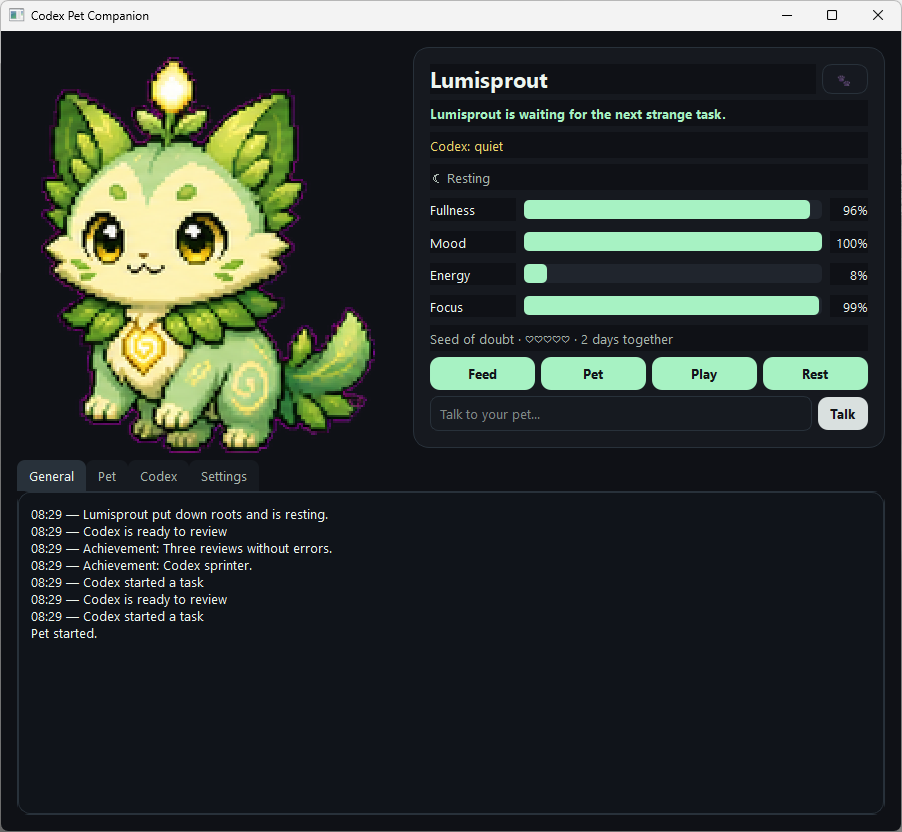
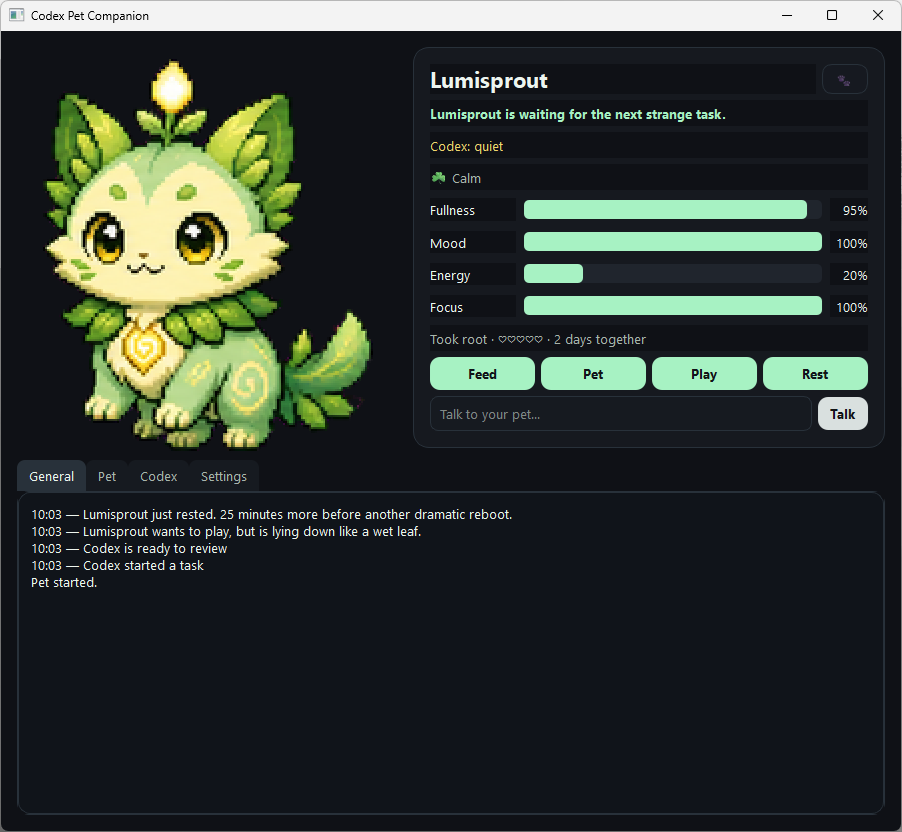
Add files via upload

diff --git a/README.md b/README.md
@@ -1,89 +1,20 @@
 # Codex Pet Companion
 
-A tiny tamagotchi-style desktop companion for Codex.
+A small desktop pet companion for working alongside Codex.
 
-## Screenshots
+## What it does
 
-**Full mode**
-
-![Codex Pet Companion full mode](screenshot.png)
-
-**Mini mode**
-
-![Codex Pet Companion mini mode](screenshot2.png)
-
-## Download
-
-Get the latest Windows build from the [Releases](https://github.com/pixel-raccoon/codex-pet-companion/releases) page.
-
-Download `CodexPetCompanion.exe`, run it, then choose your Codex folder in Settings.
-
-## What it is
-
-Codex Pet Companion is a small desktop pet that reacts to your Codex workflow.
-
-It watches Codex activity and responds when tasks start, tools run, reviews are ready, errors happen, or the session goes quiet. The pet is not just a static mascot: it has mood, energy, focus, friendship, and days together.
-
-## Features
-
-- Full desktop window and compact mini mode.
-- Mini mode with short activity notifications, similar to the official Codex pets.
-- Pet reactions to Codex tasks, tool calls, ready reviews, errors, and idle periods.
-- Tamagotchi-style care: feed, pet, play, rest, and talk to your companion.
-- Mood, energy, focus, fullness, friendship, and days-together progression.
-- Two built-in pets:
+- Shows a pet in full mode and mini mode.
+- Switches to a running animation while you drag the mini pet.
+- Reacts to Codex activity: task starts, tool calls, ready-to-review answers, and errors.
+- Shows short notifications near the mini pet.
+- Includes tamagotchi-style stats: fullness, mood, energy, focus, rest, friendship, and days together.
+- Includes built-in pets:
   - Lumisprout — a tiny glowing sprout-cat forest spirit.
   - Vikamon — a mischievous chibi mascot in a green monster hoodie.
-- Custom pet packs, so you can add your own pets.
-- Portable mode via `portable.flag`.
-
-## How Codex affects the pet
-
-Codex affects the pet through work activity.
-
-When Codex starts a task, thinks, writes, or runs tools, the pet becomes more focused and gains a little friendship, but spends energy faster.
-
-When Codex finishes an answer or review, the pet gains mood, focus, and friendship.
-
-If Codex reports an error, the pet reacts as if stressed and may lose a little mood or focus.
-
-In short: the pet lives next to your Codex workflow and reacts to activity, success, and errors.
-
-## How to use
-
-1. Download `CodexPetCompanion.exe` from Releases.
-2. Run the app.
-3. Open Settings.
-4. Check that the Codex folder path is correct.
-5. Choose a pet.
-6. Open mini mode from the main window.
-7. Double-click the mini pet to return to the full window.
-
-If you are running from source, use:
-
-```text
-start_companion_qt.bat
-```
-
-## Custom pets
-
-A pet pack must contain:
-
-```text
-pet.json
-spritesheet.webp
-```
-
-Spritesheet grid:
-
-```text
-1536x1872
-8 columns x 9 rows
-192x208 per frame
-transparent background
-```
-
-Custom pets use neutral fallback text, so they do not receive Lumisprout or Vikamon-specific lines.
+- Supports custom pet packs through the "Adopt pet" button.
+- Achievements use neutral names and work with any pet.
+- Includes minimal special dates: 7/30/100/365 days together, New Year, Halloween, and first launch anniversary.
 
 ## Where data is stored
 
@@ -106,17 +37,53 @@ config.json
 state.json
 ```
 
-Portable mode:
-
-Create this empty file next to the app:
+If you create this empty file next to the app:
 
 ```text
 portable.flag
 ```
 
-When `portable.flag` exists, the app stores `config.json` and `state.json` next to itself.
+the app switches to portable mode and stores `config.json` and `state.json` next to itself.
 
-## Build from source
+## How to use
+
+1. Run `start_companion_qt.bat` or the exe build.
+2. Check the Codex folder in Settings.
+3. Choose a pet.
+4. Open mini mode from the button in the main window.
+5. Double-click the mini pet to return to the full window.
+
+## Custom pets
+
+A pet pack must contain:
+
+```text
+pet.json
+spritesheet.webp
+```
+
+Spritesheet grid:
+
+```text
+1536x1872
+8 columns x 9 rows
+192x208 per frame
+transparent background
+```
+
+Custom pets use neutral text, so they will not receive Lumisprout or Vikamon-specific lines.
+
+## App icon
+
+The release includes an icon:
+
+```text
+app_icon.ico
+```
+
+The build scripts use it automatically, so the generated `.exe` receives the icon.
+
+## Build exe
 
 On Windows, install dependencies and run:
 
@@ -135,5 +102,3 @@ For a console/debug build, run:
 ```text
 build_windows_exe_debug.bat
 ```
-
-The release includes `app_icon.ico`, and the build scripts use it automatically.

diff --git a/RELEASE_NOTES.md b/RELEASE_NOTES.md
@@ -1,4 +1,4 @@
-# Codex Pet Companion 1.0.2-en
+# Codex Pet Companion 1.0.3-en
 
 English release package.
 
@@ -33,3 +33,12 @@ Portable mode:
 ```text
 portable.flag next to the exe
 ```
+
+
+## 1.0.3-en
+
+- Rebalanced rest and energy.
+- Offline time now behaves like sleep: energy no longer drains while the app is closed.
+- Rest gives an immediate low-energy boost and restores energy much faster.
+- Pressing Rest again no longer cancels rest; it says the pet is already resting.
+- Feed, pet, play, chat, or Codex work can interrupt rest with a separate log message.